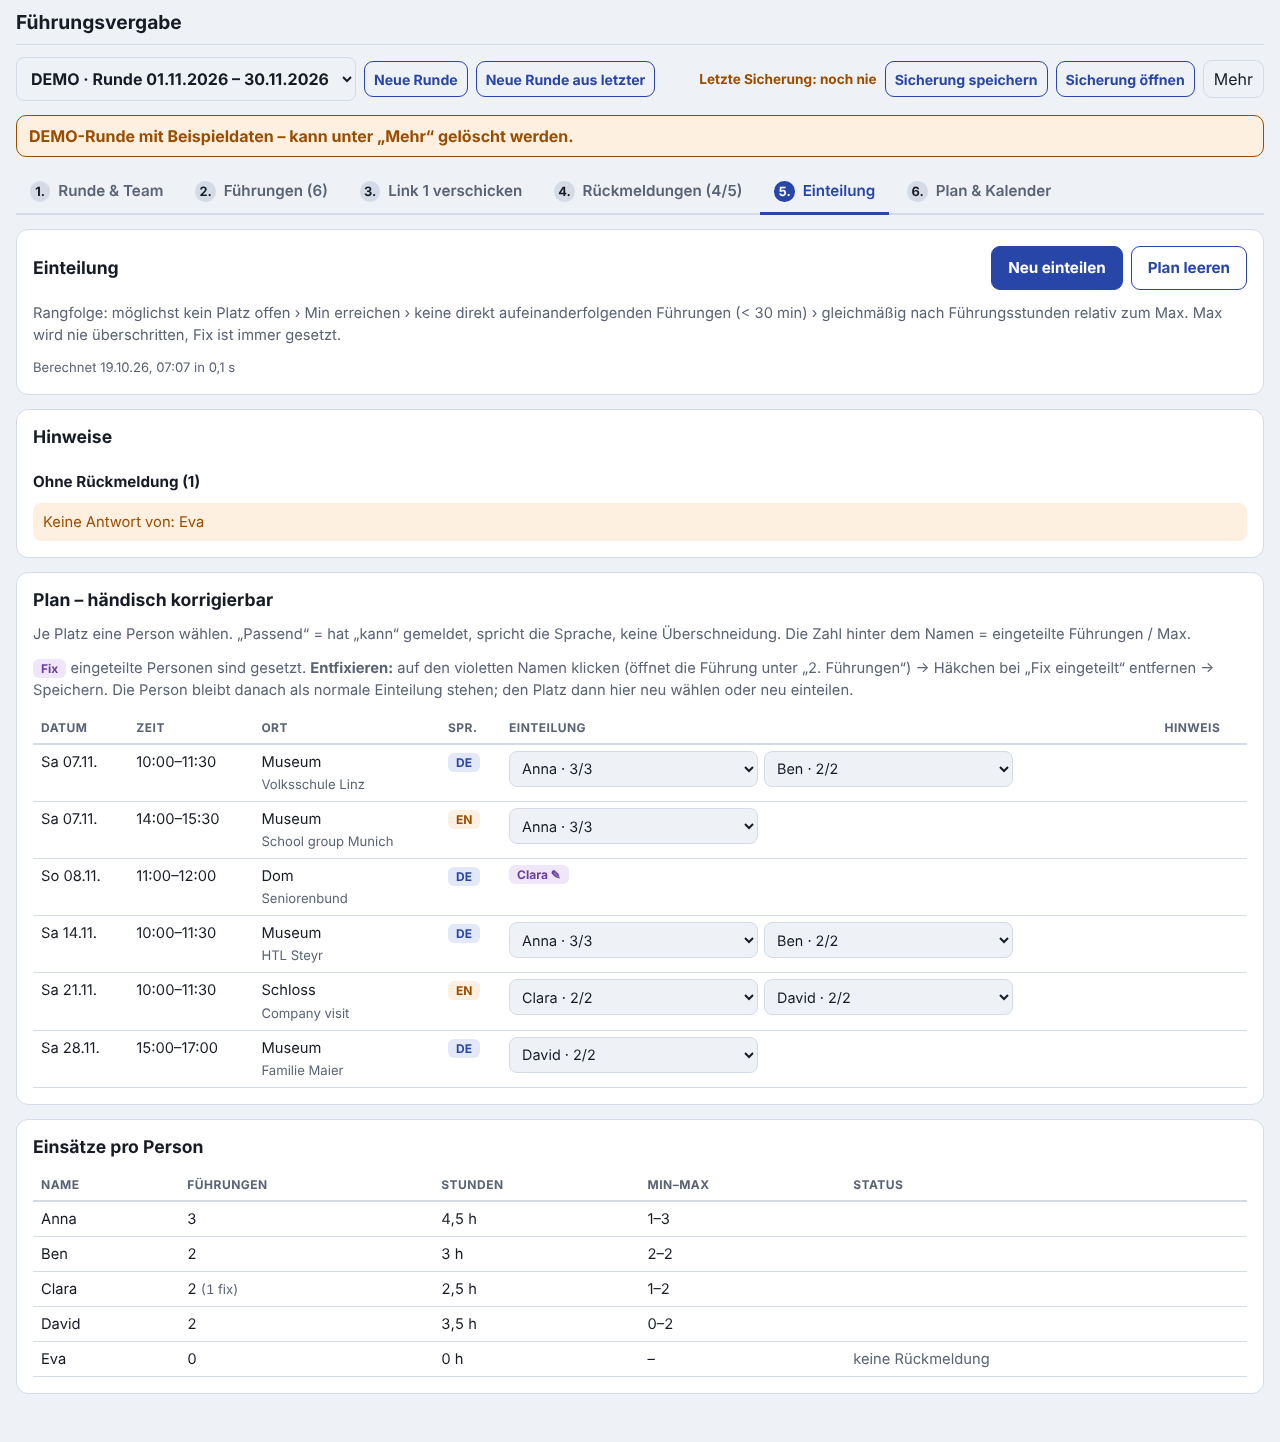
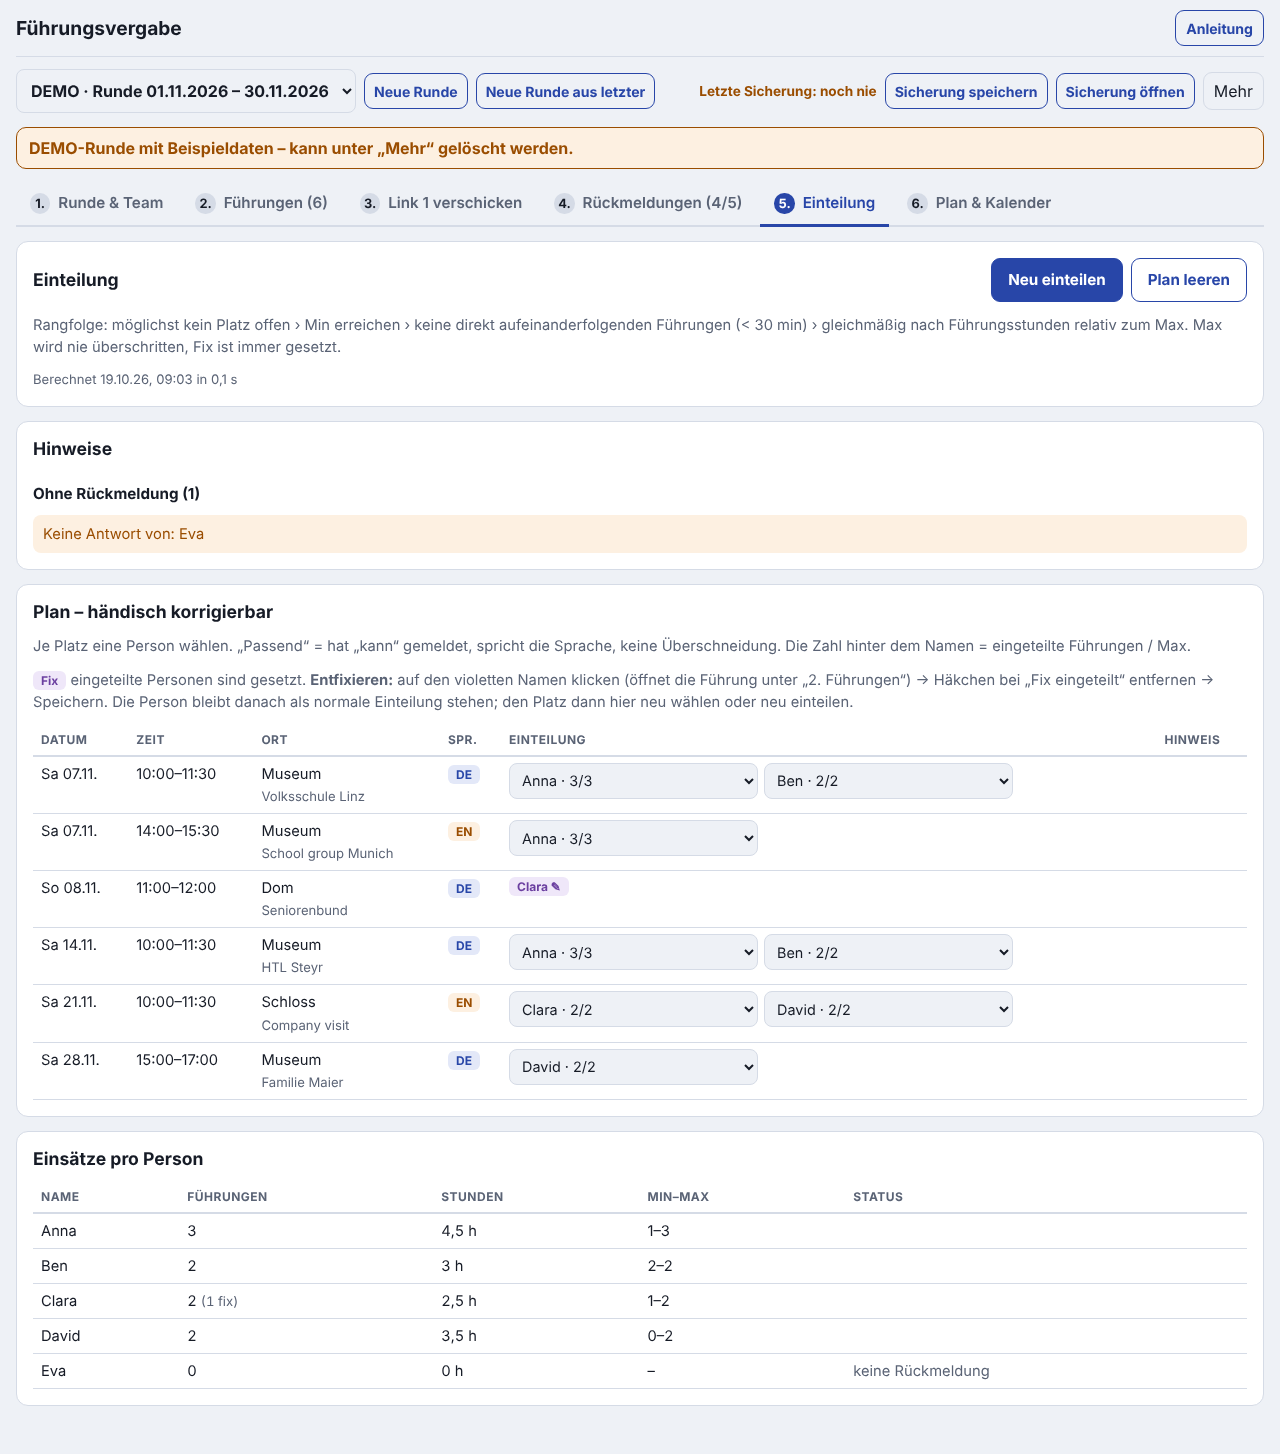
Anleitung in der Koordinationsansicht, Feedback über GitHub-Issues
- Knopf „Anleitung“ oben rechts in der Kopfzeile (nur Koordination): zeigt
  ANLEITUNG.md als Dialog, offline vom Service Worker vorgehalten. Die
  Anleitung liegt dafür jetzt unter app/ANLEITUNG.md, gerendert von einem
  kleinen Markdown-Renderer (app/js/markdown.js, mit Unit-Tests).
- Menü „Mehr“: „Feedback geben“ (Issue-Formular) und „Projekt auf GitHub“.
- Issue-Formular .github/ISSUE_TEMPLATE/feedback.yml mit Datenschutzhinweis.
- Abnahmetest prüft Anleitung (auch offline) und Feedback-Link.
- README, CHANGELOG und Bildschirmfoto der Koordination aktualisiert.

diff --git a/app/css/app.css b/app/css/app.css
@@ -46,6 +46,9 @@ header.top {
   border-bottom: 1px solid var(--line); margin: 0 auto; max-width: 1280px;
 }
 body[data-seite^="person"] header.top { max-width: 640px; }
+.top .hilfe { margin-left: auto; }
+body:not([data-seite="koord"]) .top .hilfe { display: none; }
+.hilfe + .update { margin-left: 0; }
 .update { margin-left: auto; font-size: .9rem; display: flex; gap: 8px; align-items: center; }
 main { margin: 0 auto; }
 .laden { color: var(--muted); padding: 24px 0; }
@@ -80,6 +83,7 @@ textarea { resize: vertical; min-height: 80px; }
 .btn:disabled { opacity: .45; cursor: not-allowed; }
 .link { background: none; border: 0; color: var(--accent); font: inherit; cursor: pointer; padding: 8px 0; text-align: left; }
 .link.gefahr { color: var(--err); }
+a.link { text-decoration: none; }
 .knoepfe { display: flex; flex-wrap: wrap; gap: 8px; align-items: center; }
 .iconbtn { border: 0; background: transparent; color: var(--muted); font-size: 1.05rem; cursor: pointer; padding: 6px 9px; border-radius: 6px; min-width: 36px; min-height: 36px; }
 .iconbtn:hover { background: var(--accent-soft); color: var(--accent); }
@@ -107,6 +111,28 @@ textarea { resize: vertical; min-height: 80px; }
 .schalter input { width: 22px; height: 22px; min-height: 0; accent-color: var(--accent); }
 details summary { cursor: pointer; color: var(--muted); }
 .fuss { text-align: center; }
+
+/* ---------- Anleitung (Dialog) ---------- */
+dialog#anleitung {
+  width: min(860px, calc(100vw - 32px)); max-height: calc(100dvh - 48px); padding: 0; border: 1px solid var(--line); border-radius: 12px;
+  background: var(--surface); color: var(--fg); box-shadow: 0 12px 48px rgba(0,0,0,.3); flex-direction: column;
+}
+dialog#anleitung[open] { display: flex; }
+dialog#anleitung::backdrop { background: rgba(10, 14, 24, .45); }
+.dlg-kopf { display: flex; justify-content: space-between; align-items: center; gap: 8px; padding: 10px 16px; border-bottom: 1px solid var(--line); }
+.dlg-kopf .lbl { font-weight: 700; }
+.dlg-inhalt { overflow-y: auto; padding: 16px; }
+.dlg-fuss { padding: 10px 16px; border-top: 1px solid var(--line); }
+.anleitung { display: flex; flex-direction: column; gap: 10px; }
+.anleitung h3 { font-size: 1.05rem; margin-top: 8px; }
+.anleitung h4 { font-size: .95rem; margin: 4px 0 0; }
+.anleitung ol, .anleitung ul { margin: 0; padding-left: 22px; display: flex; flex-direction: column; gap: 4px; }
+.anleitung li > ul { margin-top: 4px; }
+.anleitung hr { width: 100%; border: 0; border-top: 1px solid var(--line); margin: 4px 0; }
+.anleitung table { border-collapse: collapse; font-size: .92rem; }
+.anleitung th { text-align: left; font-size: .75rem; text-transform: uppercase; letter-spacing: .04em; color: var(--muted); padding: 6px 8px; border-bottom: 2px solid var(--line); }
+.anleitung td { padding: 6px 8px; border-bottom: 1px solid var(--line); vertical-align: top; }
+.anleitung code { font-family: var(--f-mono); font-size: .88em; }
 
 #toast {
   position: fixed; left: 50%; transform: translateX(-50%); bottom: max(16px, env(safe-area-inset-bottom)); z-index: 20;
@@ -156,6 +182,7 @@ details summary { cursor: pointer; color: var(--muted); }
 .mehr { position: relative; }
 .mehr summary { list-style: none; padding: 6px 10px; border: 1px solid var(--line); border-radius: 9px; color: var(--fg); }
 .mehr-menue { position: absolute; right: 0; top: calc(100% + 4px); background: var(--surface); border: 1px solid var(--line); border-radius: 10px; padding: 6px 14px; display: flex; flex-direction: column; z-index: 4; min-width: 220px; box-shadow: 0 6px 24px rgba(0,0,0,.15); }
+.mehr-menue hr { width: 100%; border: 0; border-top: 1px solid var(--line); margin: 4px 0; }
 .demo-band { background: var(--warn-soft); color: var(--warn); border: 1px solid var(--warn); border-radius: 10px; padding: 8px 12px; font-weight: 700; }
 .tabs { display: flex; flex-wrap: wrap; gap: 4px; border-bottom: 2px solid var(--line); }
 .tabs button { border: 0; background: transparent; color: var(--muted); font: 600 .95rem var(--f-body); padding: 10px 14px; cursor: pointer; border-bottom: 3px solid transparent; margin-bottom: -2px; }

diff --git a/app/js/markdown.js b/app/js/markdown.js
@@ -1,0 +1,86 @@
+// Kleiner Markdown-Renderer für die Anleitung (ohne DOM). Kann genau das, was ANLEITUNG.md
+// braucht: Überschriften, Absätze, Trennlinien, verschachtelte Listen, Tabellen,
+// **fett**, *kursiv*, `Code` und Links. Alles wird escaped, rohes HTML gibt es nicht.
+import { esc } from "./ui-common.js";
+
+/** Inline-Formatierung einer Zeile (Text wird zuerst escaped). */
+export function inline(text) {
+  const codes = [];
+  let s = esc(text).replace(/`([^`]+)`/g, (_, c) => `\u0000${codes.push(c) - 1}\u0000`);
+  s = s
+    // Links nur zu http(s), Ankern und relativen Pfaden (kein javascript: o. Ä.)
+    .replace(/\[([^\]]+)\]\(([^)\s]+)\)/g, (_, t, url) =>
+      /^https?:\/\//.test(url) ? `<a href="${url}" target="_blank" rel="noopener">${t}</a>`
+        : url.includes(":") ? t
+        : `<a href="${url}">${t}</a>`)
+    .replace(/\*\*(.+?)\*\*/g, "<b>$1</b>")
+    .replace(/(^|[^*\w])\*([^*\s][^*]*?)\*(?!\w)/g, "$1<i>$2</i>");
+  return s.replace(/\u0000(\d+)\u0000/g, (_, i) => `<code>${codes[+i]}</code>`);
+}
+
+const zellen = (zeile) => zeile.trim().replace(/^\||\|$/g, "").split("|").map((z) => z.trim());
+
+/** Markdown → HTML. `ebene` verschiebt Überschriften: # wird zu h{ebene}, ## zu h{ebene+1} usw. */
+export function markdownToHtml(md, { ebene = 1 } = {}) {
+  const zeilen = md.replace(/\r\n?/g, "\n").split("\n");
+  const out = [];
+  let absatz = [];
+  const listen = []; // offene Listen: { tiefe, tag }
+
+  const absatzZu = () => {
+    if (absatz.length) out.push(`<p>${inline(absatz.join(" "))}</p>`);
+    absatz = [];
+  };
+  const listenZu = (bis = -1) => {
+    while (listen.length && listen.at(-1).tiefe > bis) out.push(`</li></${listen.pop().tag}>`);
+  };
+
+  for (let i = 0; i < zeilen.length; i++) {
+    const z = zeilen[i];
+    const punkt = z.match(/^(\s*)([-*]|\d+\.)\s+(.*)$/);
+    if (!z.trim()) {
+      absatzZu();
+      continue;
+    }
+    if (punkt) {
+      absatzZu();
+      const tiefe = punkt[1].length;
+      const tag = /\d/.test(punkt[2]) ? "ol" : "ul";
+      listenZu(tiefe);
+      const oben = listen.at(-1);
+      if (oben && oben.tiefe === tiefe && oben.tag !== tag) listenZu(tiefe - 1);
+      if (listen.at(-1)?.tiefe === tiefe) out.push("</li><li>");
+      else {
+        out.push(`<${tag}><li>`);
+        listen.push({ tiefe, tag });
+      }
+      out.push(inline(punkt[3]));
+      continue;
+    }
+    if (listen.length && /^\s+\S/.test(z)) {
+      out.push(` ${inline(z.trim())}`);
+      continue;
+    }
+    listenZu();
+    if (/^\s*(-{3,}|\*{3,})\s*$/.test(z)) {
+      absatzZu();
+      out.push("<hr>");
+    } else if (/^#{1,6}\s/.test(z)) {
+      absatzZu();
+      const [, rauten, text] = z.match(/^(#+)\s+(.*)$/);
+      const h = Math.min(6, rauten.length + ebene - 1);
+      out.push(`<h${h}>${inline(text)}</h${h}>`);
+    } else if (z.trim().startsWith("|") && /^\s*\|?\s*:?-{3,}/.test(zeilen[i + 1] ?? "")) {
+      absatzZu();
+      const kopf = zellen(z);
+      const rows = [];
+      i += 2;
+      while (i < zeilen.length && zeilen[i].trim().startsWith("|")) rows.push(zellen(zeilen[i++]));
+      i--;
+      out.push(`<table><thead><tr>${kopf.map((c) => `<th>${inline(c)}</th>`).join("")}</tr></thead><tbody>${rows.map((r) => `<tr>${r.map((c) => `<td>${inline(c)}</td>`).join("")}</tr>`).join("")}</tbody></table>`);
+    } else absatz.push(z.trim());
+  }
+  absatzZu();
+  listenZu();
+  return out.join("\n");
+}

diff --git a/app/js/ui-common.js b/app/js/ui-common.js
@@ -9,6 +9,41 @@ export const isIOS = () =>
 /** Basisadresse der App (ohne Fragment), funktioniert auch unter einem Unterpfad. */
 export const baseUrl = () => location.href.split("#")[0].split("?")[0];
 
+export const REPO_URL = "https://github.com/creo08/fuehrungsvergabe";
+export const FEEDBACK_URL = `${REPO_URL}/issues/new?template=feedback.yml`;
+const extern = (url, text) => `<a href="${url}" target="_blank" rel="noopener">${text}</a>`;
+
+/** Anleitung (ANLEITUNG.md, vom Service Worker offline vorgehalten) als Dialog zeigen. */
+export async function anleitungZeigen() {
+  let dlg = document.getElementById("anleitung");
+  if (!dlg) {
+    dlg = document.createElement("dialog");
+    dlg.id = "anleitung";
+    dlg.setAttribute("aria-label", "Anleitung");
+    dlg.innerHTML = `<div class="dlg-kopf"><span class="lbl">Anleitung</span><button class="btn small ghost" data-zu>Schließen</button></div>
+      <div class="dlg-inhalt anleitung"><p class="laden">Lädt …</p></div>
+      <p class="dlg-fuss klein">Fragen, Fehler oder Wünsche? ${extern(FEEDBACK_URL, "Feedback auf GitHub geben")} (öffentlich, GitHub-Konto nötig – bitte keine Namen aus dem Team) · ${extern(REPO_URL, "Projekt auf GitHub")}</p>`;
+    dlg.querySelector("[data-zu]").addEventListener("click", () => dlg.close());
+    // Klick auf den abgedunkelten Hintergrund schließt ebenfalls
+    dlg.addEventListener("click", (ev) => ev.target === dlg && dlg.close());
+    document.body.append(dlg);
+  }
+  const inhalt = dlg.querySelector(".dlg-inhalt");
+  if (!dlg.dataset.geladen) {
+    try {
+      const res = await fetch("ANLEITUNG.md");
+      if (!res.ok) throw new Error(res.statusText);
+      const { markdownToHtml } = await import("./markdown.js");
+      inhalt.innerHTML = markdownToHtml(await res.text(), { ebene: 2 });
+      dlg.dataset.geladen = "1";
+    } catch {
+      inhalt.innerHTML = `<p>Die Anleitung konnte nicht geladen werden. Online steht sie hier: ${extern(`${REPO_URL}/blob/main/app/ANLEITUNG.md`, "Anleitung auf GitHub")}</p>`;
+    }
+  }
+  if (!dlg.open) dlg.showModal();
+  inhalt.scrollTop = 0;
+}
+
 let toastTimer = null;
 export function toast(text, art = "ok") {
   const el = document.getElementById("toast");

diff --git a/app/js/ui-koord.js b/app/js/ui-koord.js
@@ -1,6 +1,6 @@
 // Koordinationsansicht (für den Laptop gestaltet): Runde anlegen, Führungen eintragen oder
 // importieren, Link 1 verschicken, Rückmeldungen sammeln, einteilen, korrigieren, verschicken.
-import { esc, toast, saveFile, pickFile, relTage, messageBox, baseUrl } from "./ui-common.js";
+import { esc, toast, saveFile, pickFile, relTage, messageBox, baseUrl, anleitungZeigen, REPO_URL, FEEDBACK_URL } from "./ui-common.js";
 import { actions as personActions } from "./ui-person.js";
 import {
   newRound, newRoundFrom, addTour, updateTour, nameKey, findTeamName, sortNames, sortTours, fmtDatum, fmtDatumKurz,
@@ -52,6 +52,9 @@ export function render(app) {
       <button class="link" data-action="k-demo">Demo-Runde anlegen</button>
       ${r ? `<button class="link gefahr" data-action="k-loeschen">Diese Runde löschen</button>` : ""}
       <button class="link" data-action="zu-person">Zur Personen-Ansicht</button>
+      <hr>
+      <a class="link" href="${FEEDBACK_URL}" target="_blank" rel="noopener" title="Öffentlich auf GitHub, Konto nötig – bitte keine Namen aus dem Team">Feedback geben ↗</a>
+      <a class="link" href="${REPO_URL}" target="_blank" rel="noopener">Projekt auf GitHub ↗</a>
     </div></details>
   </div>`;
   if (!r) {
@@ -372,6 +375,7 @@ export const actions = {
     if (r) neueRunde(app, newRoundFrom(r));
   },
   "k-demo": (app) => neueRunde(app, demoRound()),
+  "k-anleitung": () => anleitungZeigen(),
   "k-loeschen": (app) => {
     const r = cur(app);
     if (!r || !confirm(`${rundenName(r)} wirklich löschen? Das lässt sich nicht rückgängig machen (außer über eine Sicherung).`)) return;

diff --git a/app/index.html b/app/index.html
@@ -19,6 +19,7 @@
 <body>
   <header class="top">
     <h1>Führungsvergabe</h1>
+    <button class="btn small ghost hilfe" data-action="k-anleitung">Anleitung</button>
     <div id="update" class="update" hidden>Neue Version verfügbar. <button class="btn small">Neu laden</button></div>
   </header>
   <main id="app" aria-live="polite"><p class="laden">Lädt …</p></main>

diff --git a/app/sw.js b/app/sw.js
@@ -19,6 +19,8 @@ const DATEIEN = [
   "./js/ui-common.js",
   "./js/ui-person.js",
   "./js/ui-koord.js",
+  "./js/markdown.js",
+  "./ANLEITUNG.md",
   "./vendor/lz-string.mjs",
   "./vendor/fflate.mjs",
   "./vendor/highs.mjs",

diff --git a/README.md b/README.md
@@ -8,7 +8,8 @@ Eine kleine App, mit der ein Team Führungen fair verteilt: Wer kann wann, wie v
 
 **App öffnen: <https://creo08.github.io/fuehrungsvergabe/>**
 
-- Kurzanleitung für die Bedienung (ohne Technik): [`ANLEITUNG.md`](ANLEITUNG.md)
+- Kurzanleitung für die Bedienung (ohne Technik): [`app/ANLEITUNG.md`](app/ANLEITUNG.md), in der App über **Anleitung** oben rechts
+- Fragen, Fehler, Wünsche: [Feedback geben](https://github.com/creo08/fuehrungsvergabe/issues/new?template=feedback.yml) (öffentlich, bitte keine Namen aus dem Team)
 - Version und Änderungen: [`CHANGELOG.md`](CHANGELOG.md)
 - Fachliche Prüfung, Messungen und alle Entscheidungen: [`PRUEFUNG.md`](PRUEFUNG.md)
 
@@ -140,12 +141,14 @@ Es gibt keinen Build-Schritt: reine ES-Module, alle Bibliotheken liegen in `app/
 ```
 app/                 die veröffentlichte App
   index.html, sw.js, manifest.webmanifest, css/, icons/
+  ANLEITUNG.md       Kurzanleitung, in der App als Dialog (offline vorgehalten)
   js/model.js        Datenmodell, Zeiten (Wiener Wanduhrzeit als Text), Revisionen
   js/codec.js        Links: R (Runde), A (Antwort), P (Plan) + lz-string
   js/excel.js        .xlsx-Leser (fflate) und Einfüge-Parser, Zeilenprüfung
   js/solver.js       ILP-Modell + HiGHS, Auswertung/Hinweise
   js/ical.js         .ics nach RFC 5545 mit VTIMEZONE Europe/Vienna
   js/store.js        IndexedDB/localStorage, Sicherung
+  js/markdown.js     kleiner Markdown-Renderer für die Anleitung
   js/ui-*.js         Oberfläche Koordinator:in/Person
   vendor/            highs (WebAssembly), fflate, lz-string
   vorlage-fuehrungen.xlsx

diff --git a/app/ANLEITUNG.md b/app/ANLEITUNG.md
@@ -45,3 +45,8 @@ Oben stehen sechs Schritte. Einfach der Reihe nach durchgehen:
 - **Sicherung speichern** (oben rechts) regelmäßig klicken und die Datei aufheben. Damit kann man auch auf einen anderen Computer wechseln oder an eine:n neue:n Koordinator:in übergeben: dort **Sicherung öffnen**.
 - Die App immer **im selben Browser** benutzen (z. B. immer Chrome). Ein anderer Browser hat die Daten nicht.
 - Zum Ausprobieren: **Mehr → Demo-Runde anlegen**. Danach wieder löschen mit **Mehr → Diese Runde löschen**.
+- Diese Anleitung ist in der App jederzeit über **Anleitung** (oben rechts) erreichbar, auch offline.
+
+### Fragen, Fehler, Wünsche
+
+**Mehr → Feedback geben** öffnet ein Formular auf GitHub. Dafür braucht man ein kostenloses GitHub-Konto. Alles, was dort steht, ist **öffentlich sichtbar**: bitte keine Namen aus dem Team, keine Telefonnummern und keine Links aus der App (sie enthalten die Daten der Runde) hineinschreiben.

diff --git a/CHANGELOG.md b/CHANGELOG.md
@@ -2,6 +2,11 @@
 
 Versionen nach [Semantic Versioning](https://semver.org/lang/de/). Solange die Hauptversion 0 ist, kann sich noch alles ändern, auch das Format der Links und der Sicherungsdateien.
 
+## Unveröffentlicht
+
+- **Anleitung in der App:** In der Koordinationsansicht öffnet **Anleitung** (oben rechts, immer sichtbar) die Kurzanleitung als Dialog, auch offline. Die Anleitung liegt dafür jetzt unter `app/ANLEITUNG.md`.
+- **Feedback:** **Mehr → Feedback geben** öffnet ein Formular für GitHub-Issues (Fehler, Wunsch, Frage), **Mehr → Projekt auf GitHub** das Repository. Hinweis im Formular und in der Anleitung: alles ist öffentlich, keine Namen aus dem Team.
+
 ## v0.1.0-alpha – 15.10.2026
 
 Erste Testversion. Alle Funktionen aus dem Auftrag sind enthalten und automatisch getestet. Auf echten Handys und mit Google Kalender ist sie aber **noch nicht erprobt**; dafür ist diese Alpha gedacht.
